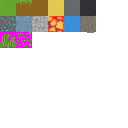
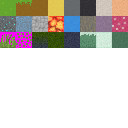
some extra odd blocks for fun

Changed region(s): [[0.25, 0.0, 1.0, 0.375]]

diff --git a/src/main.c b/src/main.c
@@ -25,14 +25,20 @@ struct blockinfo_t blockinfo[] = {
 	{ .name = "sand", .tex = { 4, 4, 4, 4, 4, 4 } },
 	{ .name = "stone", .tex = { 5, 5, 5, 5, 5, 5 } },
 	{ .name = "darkstone", .tex = { 6, 6, 6, 6, 6, 6 } },
-	{ .name = "diamond ore", .tex = { 7, 7, 7, 7, 7, 7 } },
-	{ .name = "clay", .tex = { 8, 8, 8, 8, 8, 8 } },
-	{ .name = "cobblestone", .tex = { 9, 9, 9, 9, 9, 9 } },
-	{ .name = "lava", .tex = { 10, 10, 10, 10, 10, 10 } },
-	{ .name = "water", .tex = { 11, 11, 11, 11, 11, 11 } },
-	{ .name = "treetrunk", .tex = { 12, 12, 12, 12, 12, 12 } },
-	{ .name = "grass billboard", .tex = { 13, 13, 13, 13, 13, 13 } },
-	{ .name = "leaves", .tex = { 14, 14, 14, 14, 14, 14 } },
+	{ .name = "bone", .tex = { 7, 7, 7, 7, 7, 7 } },
+	{ .name = "skin", .tex = { 8, 8, 8, 8, 8, 8 } },
+	{ .name = "diamond ore", .tex = { 9, 9, 9, 9, 9, 9 } },
+	{ .name = "clay", .tex = { 10, 10, 10, 10, 10, 10 } },
+	{ .name = "cobblestone", .tex = { 11, 11, 11, 11, 11, 11 } },
+	{ .name = "lava", .tex = { 12, 12, 12, 12, 12, 12 } },
+	{ .name = "water", .tex = { 13, 13, 13, 13, 13, 13 } },
+	{ .name = "treetrunk", .tex = { 14, 14, 14, 14, 14, 14 } },
+	{ .name = "deadskin", .tex = { 15, 15, 15, 15, 15, 15 } },
+	{ .name = "shroom", .tex = { 16, 16, 16, 16, 16, 16 } },
+	{ .name = "grass billboard", .tex = { 17, 17, 17, 17, 17 } },
+	{ .name = "leaves", .tex = { 18, 18, 18, 18, 18, 18 } },
+	{ .name = "moss", .tex = { 20, 21, 19, 19, 19, 19 } },
+	{ .name = "snowy spruce", .tex = { 23, 24, 22, 22, 22, 22 } },
 };
 
 static void

diff --git a/src/voxelmap.h b/src/voxelmap.h
@@ -21,14 +21,20 @@ enum game_blocktype {
 	BLOCK_SAND,
 	BLOCK_STONE,
 	BLOCK_DARKSTONE,
+	BLOCK_BONE,
+	BLOCK_SKIN,
 	BLOCK_DIAMOND_ORE,
 	BLOCK_CLAY,
 	BLOCK_COBBLESTONE,
 	BLOCK_LAVA,
 	BLOCK_WATER,
 	BLOCK_TREETRUNK,
+	BLOCK_DEADSKIN,
+	BLOCK_SHROOM,
 	BLOCK_GRASS_BILLBOARD,
 	BLOCK_LEAVES,
+	BLOCK_MOSS,
+	BLOCK_SNOWY_SPRUCE,
 };
 
 #define BLOCK_TC_W (16.0 / 128.0)
